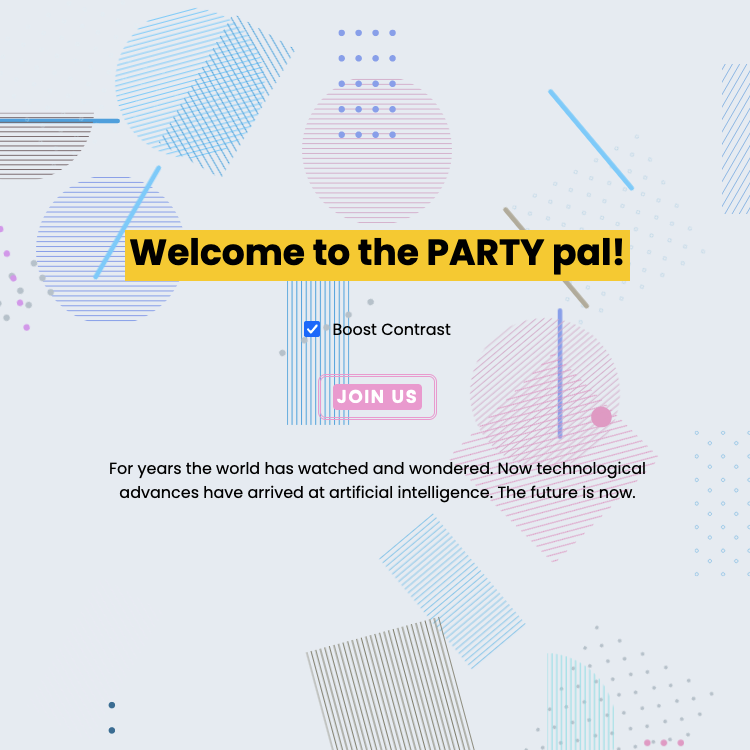
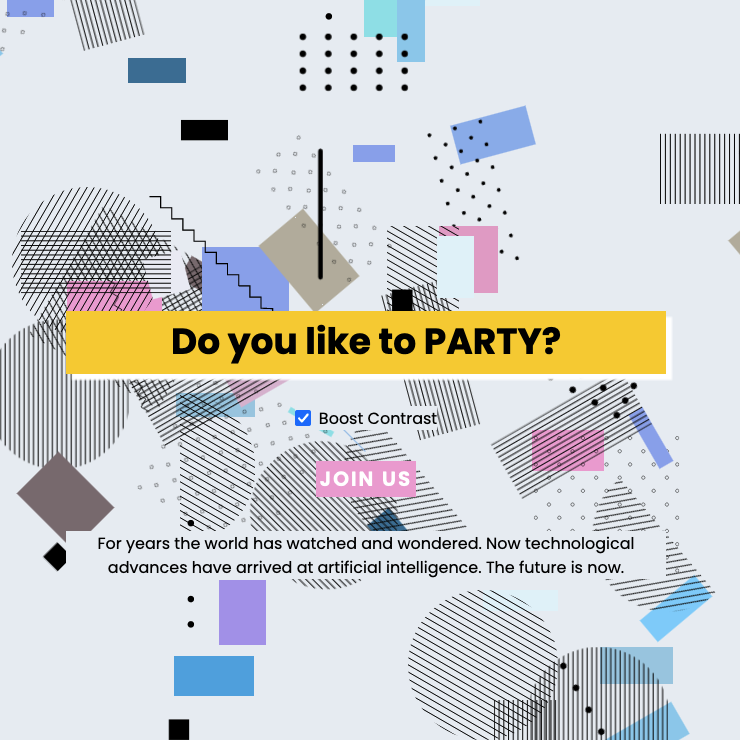
handle email send success/error conditions logic and UI

diff --git a/app.js b/app.js
@@ -1,4 +1,5 @@
 import shapes from './shapes.js';
+import {EMAIL_SERVER, EMAIL_RECIPIENT} from './env.js';
 
 let shapeList = shapes;
 
@@ -139,6 +140,7 @@ generateBackground(element, colorList, numberOfShapes, mode, rotation);
 const animateBox = document.querySelector("#animate");
 
 const contrast = document.getElementById('contrast');
+const headline = document.getElementById('headline');
 const strapline = document.getElementById('strapline');
 
 function addRemoveBgCol(element){
@@ -171,11 +173,12 @@ animateBox.addEventListener("click", function () {
   const closeModalBtn = document.getElementById('closeModalBtn');
   const modalOverlay = document.getElementById('modalOverlay');
   const subscriptionModal = document.getElementById('subscriptionModal');
-  const email = document.getElementById('email');
+  const senderEmailError = document.getElementById('senderEmailError');
+  const senderEmail = document.getElementById('senderEmail');
 
   openModalBtn.addEventListener('click', () => {
     setTimeout(() => {
-      email.focus();
+      senderEmail.focus();
     }, 100);
     hero.classList.add("hidden");
     modalOverlay.classList.remove('hidden');
@@ -189,15 +192,93 @@ animateBox.addEventListener("click", function () {
   });
 
 document.addEventListener('keydown', (event) => {
-    // Check if the escape key was pressed
+    // check if the escape key was pressed
     if (event.key === 'Escape') {
-        // Hide the modal overlay and subscription modal
+        // hide the modal overlay and subscription modal
         modalOverlay.classList.add('hidden');
         subscriptionModal.classList.add('hidden');
 
-        // Show the "hero" element again
+        // show the "hero" element again
         document.getElementById('hero').classList.remove("hidden");
     }
 });
 
+
+// validate user inputted email address
+document.getElementById('sendEmailBtn').addEventListener('click', function() {
+
+    if(senderEmail.value === ""){
+      senderEmail.value = "Please enter your email address";
+        setTimeout(() => {
+          senderEmail.value = "";
+        }, 1500);
+      return;
+    }
+
+    if(!validateEmail(senderEmail.value)){
+      senderEmailError.textContent = "Your email address may contain errors";
+      setTimeout(() => {
+        senderEmailError.textContent = "";
+      }, 1500);
+      return;
+    }
+
+    // if email validates send an email
+    const payload = {
+        from: senderEmail.value,
+        to: EMAIL_RECIPIENT,
+        subject: 'New Lets Party Email Sign Up',
+        body: senderEmail.value,
+    };
+    
+    sendEmail(payload);
+    senderEmail.value = "";
+});
+
+function validateEmail(email) {
+  const emailRegex = /^[^\s@]+@[^\s@]+\.[^\s@]+$/;
+  return emailRegex.test(email);
+}
+
+// send the email to the backend and update the dom accordingly
+function sendEmail(payload) {
+    const serverEndpoint = EMAIL_SERVER;
+
+    fetch(serverEndpoint, {
+        method: 'POST',
+        headers: {
+          'Content-Type': 'application/json',
+        },
+        body: JSON.stringify(payload),
+    })
+    .then(response => {
+        if (!response.ok) {
+            throw new Error('Failed to send email');
+        }
+        return response.json();
+    })
+    .then(data => {
+        modalOverlay.classList.add("hidden");
+        subscriptionModal.classList.add("hidden");
+        
+        hero.classList.remove("hidden");
+        
+        if(data.success){
+          // console.log('Email sent successfully', data);
+          openModalBtn.classList.add("hidden");
+          headline.innerHTML = `<span>Welcome to the PARTY pal!</span>`;
+          strapline.innerHTML = `<span>Check your inbox over the next few days for further instructions.</span>`;
+        } else {
+          headline.innerHTML = `<span>OOPS! Please try again</span>`;
+        }
+    })
+    .catch(error => {
+        console.error('Error sending email', error);
+        
+        headline.innerHTML = `<span>OOPS! Please try again</span>`;
+    });
+}
+
+// 
+// 
 window.onload = animateBox.checked = false;

diff --git a/index.html b/index.html
@@ -12,7 +12,7 @@
   
 
   <div id="hero">
-   <h1 class="brute px-1 pt-2 pb-2.5 mb-4 md:mb-2 font-bold leading-tight text-4xl bg-yellow-400">Welcome to the PARTY pal!</h1>
+   <h1 id="headline" class="brute px-1 pt-2 pb-2.5 mb-4 md:mb-2 font-bold leading-tight text-4xl bg-yellow-400">Do you like to PARTY?</h1>
     
     <div class="my-4">
      
@@ -32,21 +32,22 @@
     </p>
   </div>
 
-    <!-- Modal overlay-->
+    <!-- modal overlay-->
     <div id="modalOverlay" class="fixed inset-0 bg-white opacity-20 hidden"></div>
-    <!-- Modal content -->
+    <!-- modal content -->
     <div id="subscriptionModal" class="fixed top-1/2 left-1/2 transform -translate-x-1/2 -translate-y-1/2 bg-white p-8 rounded-md shadow-lg hidden">
-        <!-- Your email subscription form goes here -->
-        <form>
-            <label for="email" class="block mb-2 text-gray-800">What's your Email?</label>
-            <input type="email" id="email" name="email" class="w-full p-2 border rounded-md" required>
+        
+        <!-- email subscription -->
+        <label for="email" class="block mb-2 text-gray-800">What's your Email?</label>
+        <input type="email" id="senderEmail" name="email" class="w-full p-2 border rounded-md" required>
 
-            <button type="submit" class="btn mt-6 text-black hover:bg-green-300"><span class="bg-green-300">LETS PARTY!</span></button>
+        <p id="senderEmailError" class="text-sm text-red-600 mt-2"></p>
 
-            <p class="text-slate-300 text-sm mt-1 -mb-2">Your email address will be stored securely and you can unsubscribe anytime.</p>
-        </form>
+        <button id="sendEmailBtn" class="btn mt-5 text-black hover:bg-green-300"><span class="bg-green-300">LETS PARTY!</span></button>
 
-        <!-- Close button -->
+        <p class="text-slate-300 text-sm mt-1 -mb-2">Your email address will be stored securely and you can unsubscribe anytime.</p>
+
+        <!-- modal close button -->
         <button id="closeModalBtn" class="absolute top-0 right-0 m-4 text-gray-600">X</button>
     </div>
   

diff --git a/README.md b/README.md
@@ -1,6 +1,6 @@
-## Party.ai
+## LetsParty
 
-[LIVE SITE]()
+[LIVE SITE](https://letsparty.olk1.com)
 
 ![ALT:preview](preview.png)
 ![ALT:preview2](preview2.png)
